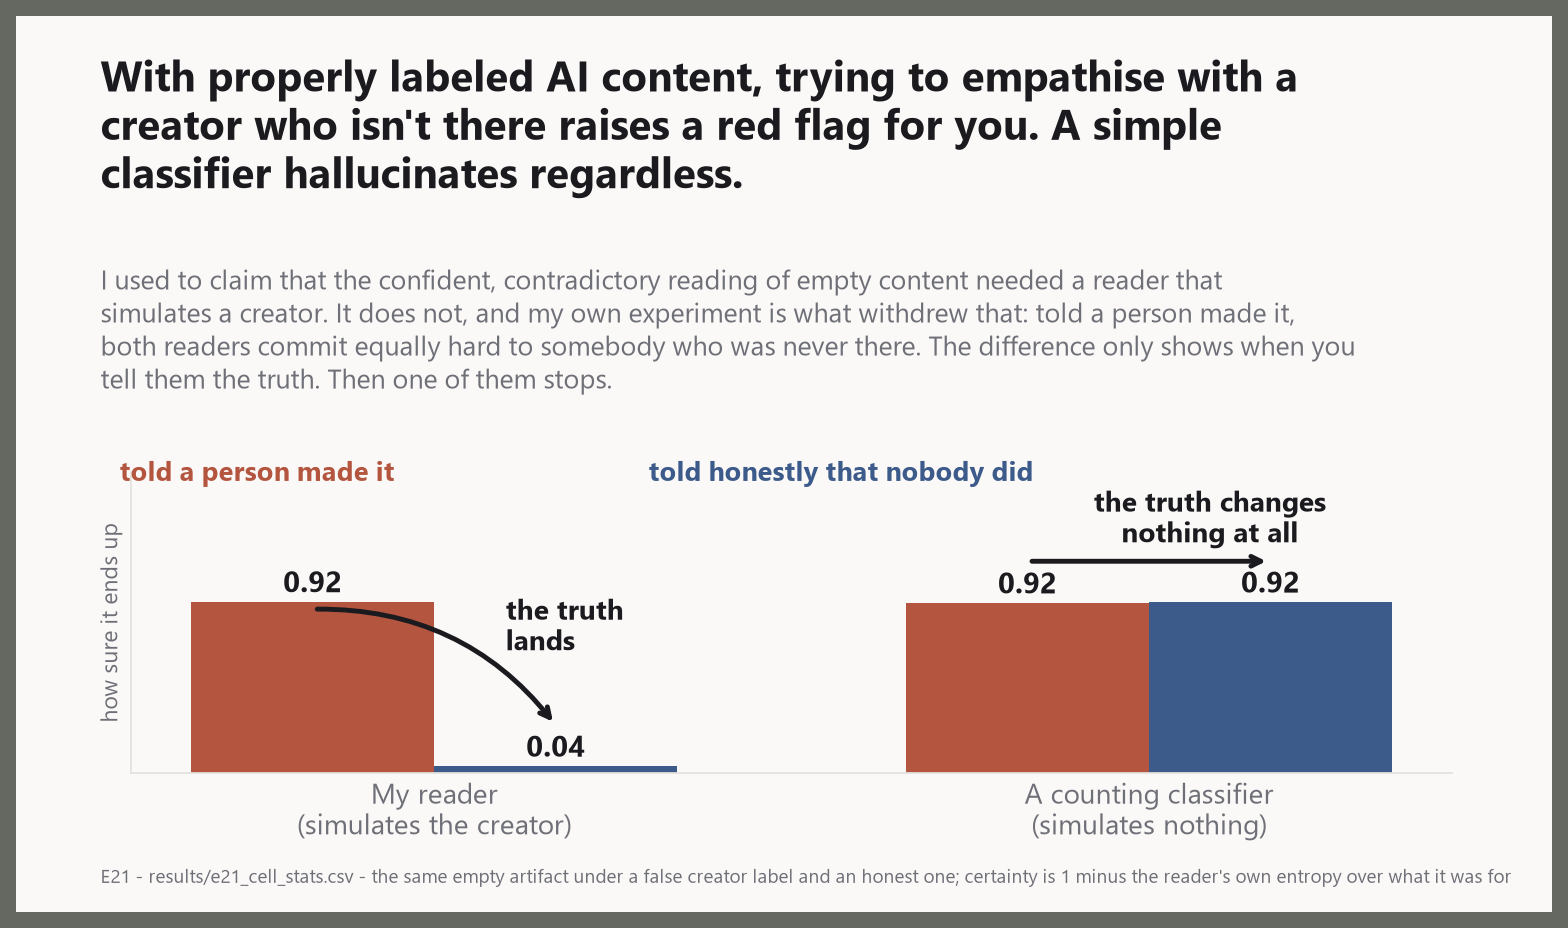
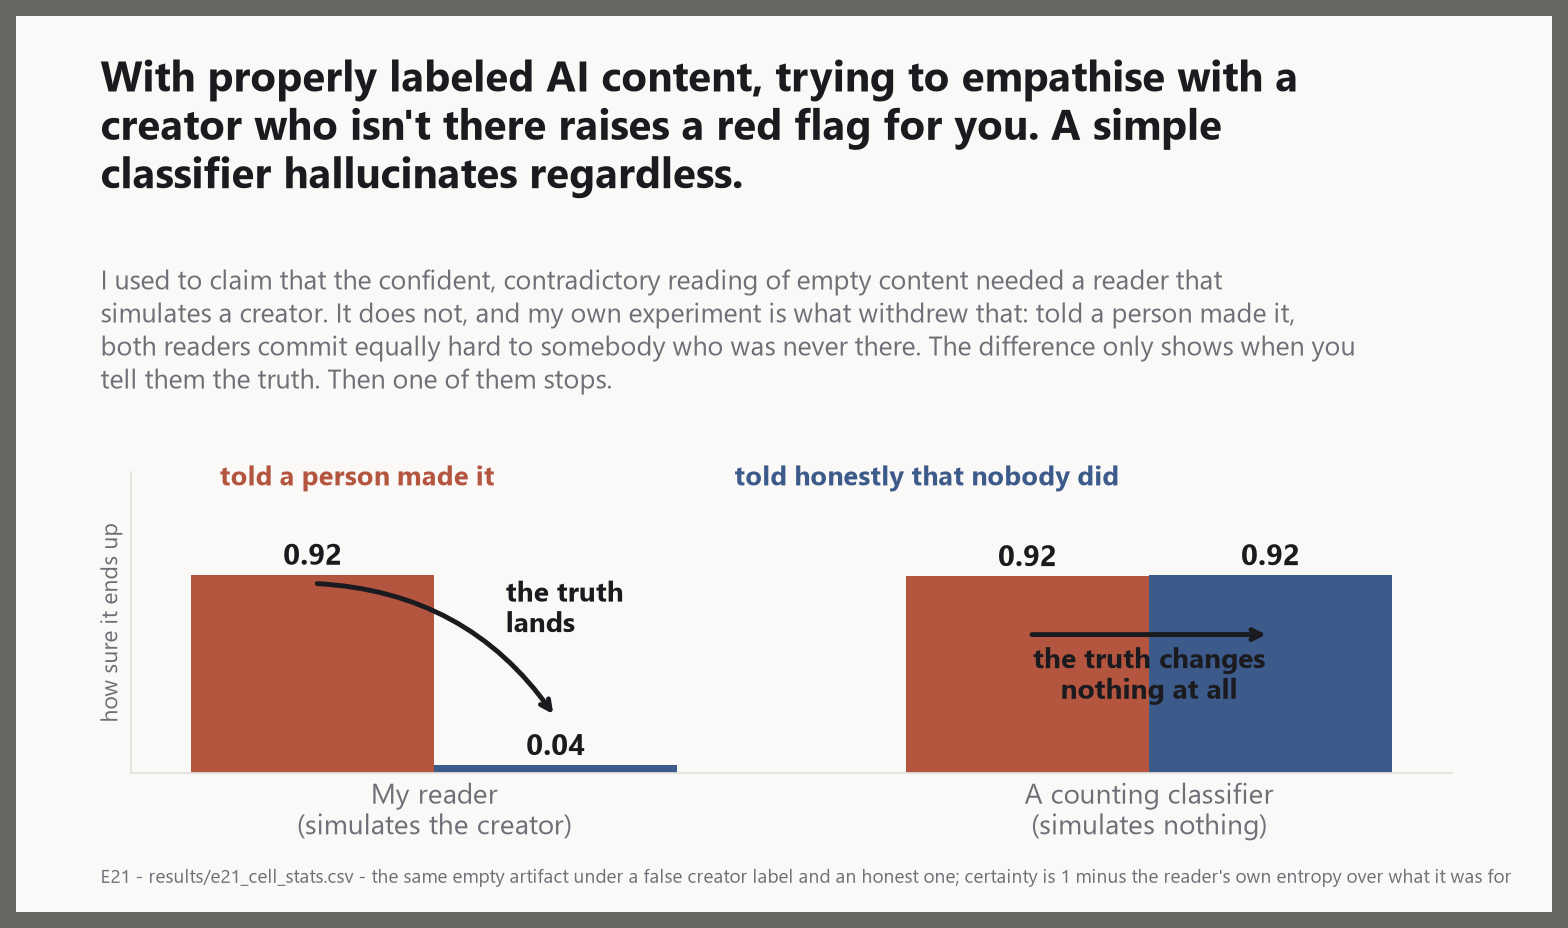
A second black block is a plate feature, not an annotation squeezed into a chart
plate() takes `second`: the author's own words, black, at the title's own left
margin with a blank row above, and the axes start below it. That is what plate
20 needed -- the y-axis line was cutting straight through that sentence when it
was drawn inside the plot. The claim it makes now carries italics.

13's flat arrow moves down into the bars at 70% height with its label beneath
it, so it reads as a journey across the pair rather than a bracket over it, and
both legend labels clear the y-axis.

diff --git a/scripts/make_walkthrough_plates.py b/scripts/make_walkthrough_plates.py
@@ -595,11 +595,13 @@ def plate_13_no_mind_needed():
                         "A counting classifier\n(simulates nothing)"], fontsize=12.5)
     bar_labels(ax, b1, lied, fmt="{:.2f}", fontsize=13, color=INK)
     bar_labels(ax, b2, told, fmt="{:.2f}", fontsize=13, color=INK)
-    ax.set_ylim(0, 1.62)
+    ax.set_ylim(0, 1.40)
     clean_axis(ax, "how sure it ends up")
     ax.set_yticks([])
-    annotate(ax, -0.44, 1.54, "told a person made it", color=MACHINE, fontsize=12, weight="bold")
-    annotate(ax, 0.30, 1.54, "told honestly that nobody did", color=COOL, fontsize=12,
+    # Clear of the y-axis line. Both of these used to start left of the spine, which read as a
+    # misalignment rather than as a legend.
+    annotate(ax, -0.30, 1.31, "told a person made it", color=MACHINE, fontsize=12, weight="bold")
+    annotate(ax, 0.42, 1.31, "told honestly that nobody did", color=COOL, fontsize=12,
              weight="bold")
     # THE TWO ARROWS ARE THE PLATE. One pair collapses and the other does not, and the eye has to
     # get that before it reads a number, so each pair carries its own black arrow and its own
@@ -610,10 +612,14 @@ def plate_13_no_mind_needed():
                                 connectionstyle="arc3,rad=-0.25"))
     annotate(ax, 0.10, 0.62, "the truth\nlands", color=INK, fontsize=12.5, weight="bold",
              ha="left")
-    ax.annotate("", xy=(1 + w / 2, 1.14), xytext=(1 - w / 2, 1.14),
-                arrowprops=dict(arrowstyle="->", color=INK, lw=2.2))
-    annotate(ax, 1 + w * 0.25, 1.20, "the truth changes\nnothing at all", color=INK,
-             fontsize=12.5, weight="bold", ha="center")
+    # ACROSS the pair rather than above it. The left arrow travels through the space between two
+    # bars of different height; the right one has nowhere to travel except through the bars
+    # themselves, and putting it overhead made it look like a bracket rather than a journey.
+    flat = told[1] * 0.70
+    ax.annotate("", xy=(1 + w / 2, flat), xytext=(1 - w / 2, flat),
+                arrowprops=dict(arrowstyle="->", color=INK, lw=2.2), zorder=4)
+    annotate(ax, 1, flat - 0.05, "the truth changes\nnothing at all", color=INK,
+             fontsize=12.5, weight="bold", ha="center", va="top", zorder=4)
     record(save(fig, "13_no_mind_needed"),
            "A claim this project withdrew, using its own experiment. Kept prominently on purpose.")
 
@@ -848,23 +854,18 @@ def plate_20_rejection_is_not_protection():
         "",
         "E46 - results/v7/e46_gate_leak.json - drift after repeatedly rejecting everything, at a "
         "fixed 10% leak; nobody added that leak, version 6's smooth guard already had it",
-        authored=True)
+        authored=True,
+        second="Unfortunately, the same result implies that engaging with unlabelled AI "
+               r"content can $\it{actively\ erode\ away\ your\ expertise}$.")
     bars = ax.bar(["Skims it\n(two looks)", "Studies it closely\nto refute it (sixteen looks)"],
                   [skim, close], color=[NEUTRAL, MACHINE], width=0.5)
     bar_labels(ax, bars, [skim, close], fmt="{:.3f}", fontsize=15, color=INK)
-    ax.set_ylim(0, close * 1.82)
+    ax.set_ylim(0, close * 1.22)
     clean_axis(ax)
     ax.set_yticks([])
-    annotate(ax, 1, close * 1.20,
+    annotate(ax, 1, close * 1.12,
              str(int(round(eng["ratio"]))) + "x further from where it started",
              color=MACHINE, ha="center", fontsize=14, weight="bold")
-    # THE AUTHOR'S SECOND SENTENCE, KEPT IN BLACK AND MOVED OFF THE TITLE. It is a separate claim
-    # from the one in the headline and it was making a four-line title, so it runs here in INK --
-    # the scale's rule is about whose words they are, not about where on the plate they sit.
-    annotate(ax, -0.34, close * 1.72,
-             "Unfortunately, the same result implies that engaging with unlabelled\n"
-             "AI content can actively erode away your expertise.",
-             color=INK, ha="left", fontsize=14.5, weight="bold", va="top")
     record(save(fig, "20_rejection_is_not_protection"),
            "The theory always contained this term and the code never did. It is the proposed "
            "mechanism for indoctrination: you are changed by what you refuse.")

diff --git a/ghostscale/plates.py b/ghostscale/plates.py
@@ -74,12 +74,13 @@ def _apply_rc() -> None:
         # house font so the italic does not arrive in a different typeface than its own sentence.
         "mathtext.fontset": "custom",
         "mathtext.rm": _FONT,
-        "mathtext.it": f"{_FONT}:italic",
+        "mathtext.it": f"{_FONT}:italic:bold",
         "mathtext.bf": f"{_FONT}:bold",
     })
 
 
-def plate(title: str, subtitle: str, footer: str, size=(9.6, 5.6), authored: bool = False):
+def plate(title: str, subtitle: str, footer: str, size=(9.6, 5.6), authored: bool = False,
+          second: str = ""):
     """A figure with the finding in the title and the provenance in the footer.
 
     The proportions are deliberate: 16:9-ish, because these are meant to survive being posted
@@ -130,6 +131,17 @@ def plate(title: str, subtitle: str, footer: str, size=(9.6, 5.6), authored: boo
     fig.text(0.055, 0.028, footer, fontsize=8.5, color=MUTED, va="bottom")
 
     axes_top = sub_y - 0.050 * len(sub_lines) - 0.030
+
+    # A SECOND BLOCK OF THE AUTHOR'S OWN WORDS, which is a different thing from a subtitle. It
+    # runs black at the same left margin as the title with a blank row above it, and the axes
+    # start below it, so the y-axis line cannot cut through it the way it did when this text was
+    # drawn inside the plot.
+    if second.strip():
+        second_lines = _wrap(second, 74)
+        fig.text(0.055, axes_top - 0.030, "\n".join(second_lines), fontsize=15,
+                 fontweight="bold", color=INK, va="top", linespacing=1.28)
+        axes_top -= 0.030 + 0.058 * len(second_lines) + 0.030
+
     bottom = 0.155
     ax = fig.add_axes([0.075, bottom, 0.86, max(axes_top - bottom, 0.30)])
     return fig, ax
@@ -321,8 +333,9 @@ def zero_line(ax):
     ax.axhline(0, color=INK, lw=1.1, zorder=1)
 
 
-def annotate(ax, x, y, text, color=INK, ha="left", va="bottom", fontsize=11, weight="normal"):
-    ax.text(x, y, text, color=color, ha=ha, va=va, fontsize=fontsize, fontweight=weight)
+def annotate(ax, x, y, text, color=INK, ha="left", va="bottom", fontsize=11, weight="normal",
+             **kw):
+    ax.text(x, y, text, color=color, ha=ha, va=va, fontsize=fontsize, fontweight=weight, **kw)
 
 
 def clean_axis(ax, ylabel: str = "", xlabel: str = ""):
